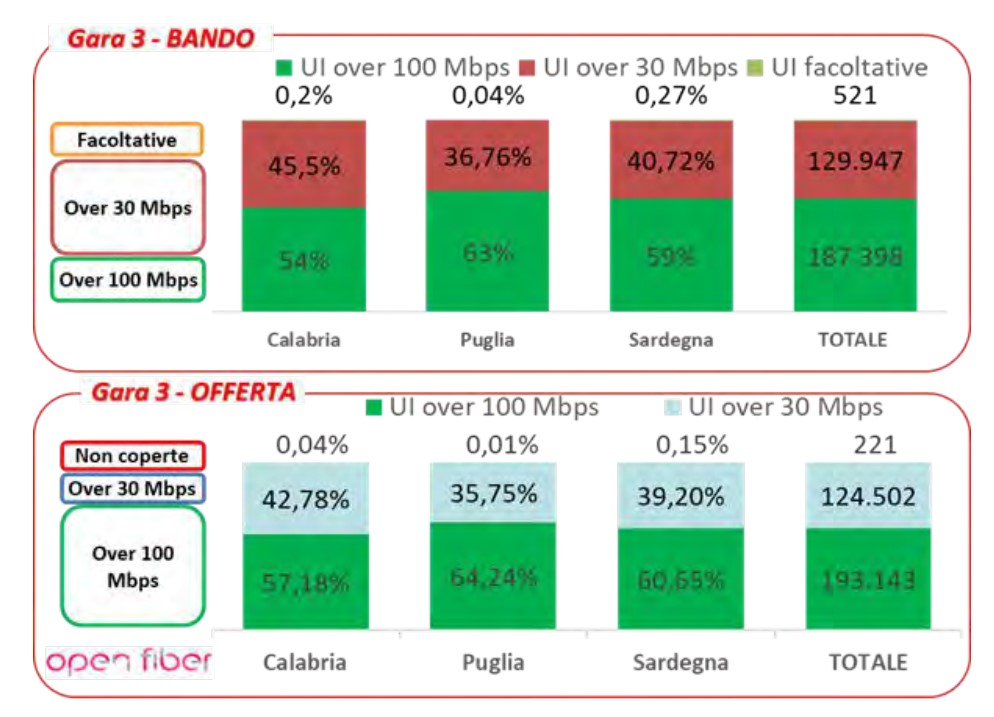
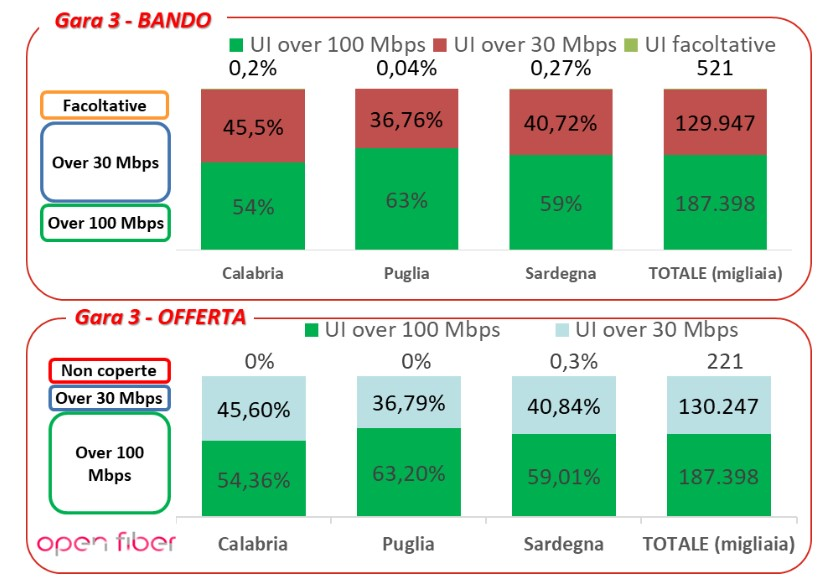
Fix piano BUL

Changed region(s): [[0.0302, 0.0, 0.9976, 0.9863], [0.2418, 0.2774, 0.393, 0.3082], [0.4534, 0.3082, 0.5139, 0.3699]]

diff --git a/content/posts/bul.md b/content/posts/bul.md
@@ -171,8 +171,8 @@ In particolare, la proposta di Open Fiber è così articolata (le percentuali si
 {{< fig src="/images/bando2b.jpg" caption="L'offerta economica di Open Fiber per i lotti del bando BUL2." >}}
 
 - **Terzo bando**
-  - 60% di copertura FTTH (>100 Mbps)
-  - 30% di copertura FWA (>30 Mbps)
+  - 59% di copertura FTTH (>100 Mbps)
+  - 41% di copertura FWA (>30 Mbps)
 
 {{< fig src="/images/bando3.jpg" caption="Confronto tra requisiti del bando BUL3 e l'offerta di Open Fiber." alt="Grafici che mostrano le percentuali del bando e dell'offerta Open Fiber" >}}
 
